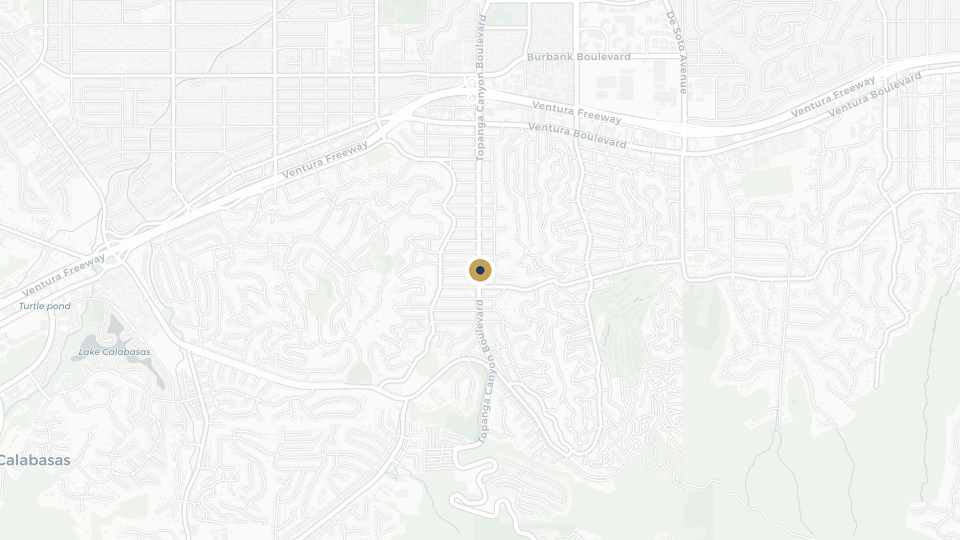
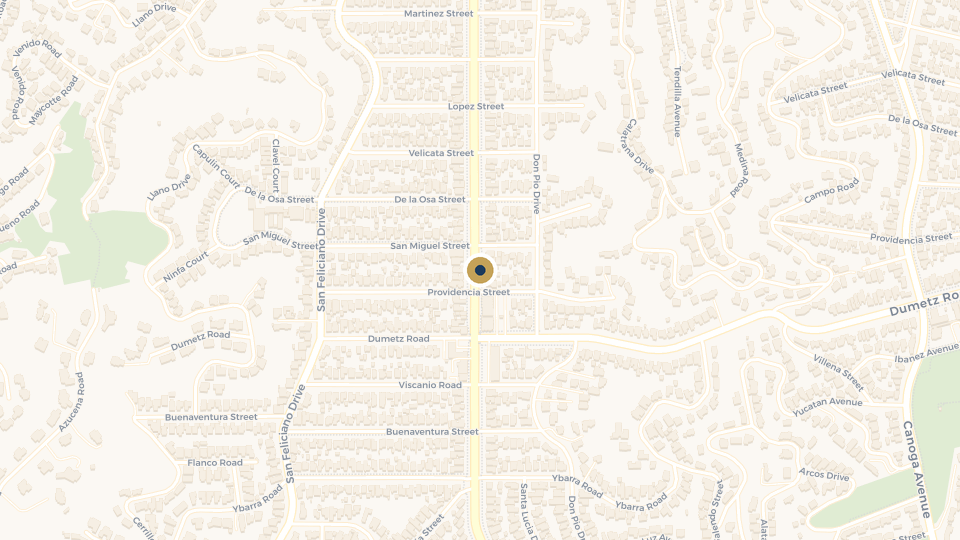
Interactive Leaflet maps: clickable comp markers w/ address popups; zoomed-in subject map; print fallbacks

Changed region(s): [[0.0, 0.0, 1.0, 1.0], [0.0, 0.6815, 0.0312, 0.8], [0.75, 0.0, 0.7812, 0.0296]]

diff --git a/index.html b/index.html
@@ -11,6 +11,8 @@
 <link rel="preconnect" href="https://fonts.googleapis.com">
 <link rel="preconnect" href="https://fonts.gstatic.com" crossorigin>
 <link href="https://fonts.googleapis.com/css2?family=Inter:wght@300;400;500;600;700&family=DM+Serif+Display&display=swap" rel="stylesheet">
+<link rel="stylesheet" href="https://unpkg.com/leaflet@1.9.4/dist/leaflet.css" integrity="sha256-p4NxAoJBhIIN+hmNHrzRCf9tD/miZyoHS5obTRR9BMY=" crossorigin=""/>
+<script src="https://unpkg.com/leaflet@1.9.4/dist/leaflet.js" integrity="sha256-20nQCchB9co0qIjJZRGuk2/Z9VM+kNiyxNV1lvTlZBo=" crossorigin=""></script>
 <style>
 * { margin: 0; padding: 0; box-sizing: border-box; }
 body { font-family: 'Inter', sans-serif; color: #333; line-height: 1.6; background: #fff; }
@@ -141,6 +143,9 @@ td.num, th.num { text-align: right; }
 .embed-map-wrap { position: relative; width: 100%; margin-bottom: 24px; border-radius: 8px; overflow: hidden; }
 .embed-map-wrap iframe { display: block; width: 100%; height: 420px; border: 0; }
 .pending-note { font-size: 12px; color: #6B7280; font-style: italic; margin: 8px 0 20px; }
+.print-only-map { display: none; }
+.leaflet-popup-content { font-family: 'Inter', sans-serif; font-size: 12px; line-height: 1.5; }
+.leaflet-container { font-family: 'Inter', sans-serif; }
 .page-break-marker { height: 4px; background: repeating-linear-gradient(90deg, #ddd 0, #ddd 8px, transparent 8px, transparent 16px); max-width: 1100px; margin: 0 auto; }
 .footer { background: #1B3A5C; color: #fff; padding: 50px 40px; text-align: center; }
 .footer-logo { width: 200px; margin-bottom: 30px; }
@@ -178,7 +183,8 @@ td.num, th.num { text-align: right; }
 @media print {
   @page { size: letter landscape; margin: 0.4in 0.5in; }
   body { font-size: 11px; -webkit-print-color-adjust: exact; print-color-adjust: exact; }
-  .toc-nav, .embed-map-wrap, .page-break-marker { display: none !important; }
+  .toc-nav, .embed-map-wrap, .page-break-marker, #map-comps, #map-loc { display: none !important; }
+  .print-only-map { display: block !important; width: 100%; height: auto; border-radius: 4px; }
   .cover { min-height: 7.5in; page-break-after: always; }
   .cover-headshots { display: flex !important; }
   .section { padding: 20px 0; page-break-before: always; }
@@ -393,8 +399,9 @@ td.num, th.num { text-align: right; }
       <p class="pending-note">Median HH income and demographic detail to be confirmed prior to launch.</p>
     </div>
   </div>
-  <div style="border-radius:8px;overflow:hidden;box-shadow:0 2px 12px rgba(0,0,0,0.08);margin-top:24px;"><img src="images/loc_map.png" alt="Location map - 4942 Topanga Canyon Blvd, Woodland Hills" style="width:100%;display:block;"></div>
-  <p style="font-size:10px;color:#999;margin:6px 0 0;">Map data &copy; OpenStreetMap contributors, &copy; CARTO.</p>
+  <div id="map-loc" style="height:430px;border-radius:8px;overflow:hidden;box-shadow:0 2px 12px rgba(0,0,0,0.08);margin-top:24px;"></div>
+  <img src="images/loc_map.png" class="print-only-map" alt="Location map" style="margin-top:24px;">
+  <p style="font-size:10px;color:#999;margin:6px 0 0;"><strong>Click the marker</strong> for the address; use +/&minus; to zoom in or out.</p>
 </div>
 
 <!-- PROPERTY DETAILS -->
@@ -463,7 +470,8 @@ td.num, th.num { text-align: right; }
   <div class="section-title">Sale Comparables</div>
   <div class="section-subtitle">Recent Sold New-Construction Four-Unit Properties</div>
   <div class="section-divider"></div>
-  <div style="border-radius:8px;overflow:hidden;box-shadow:0 2px 12px rgba(0,0,0,0.08);margin-bottom:10px;"><img src="images/comp_map.png" alt="Combined map of subject, sale comps, on-market comps, and rent comps" style="width:100%;display:block;"></div>
+  <div id="map-comps" style="height:480px;border-radius:8px;overflow:hidden;box-shadow:0 2px 12px rgba(0,0,0,0.08);margin-bottom:10px;"></div>
+  <img src="images/comp_map.png" class="print-only-map" alt="Combined comparables map">
   <div style="display:flex;flex-wrap:wrap;gap:10px 22px;align-items:center;font-size:12px;color:#444;margin-bottom:4px;">
     <strong style="color:#1B3A5C;">Combined Comparables Map</strong>
     <span><span style="display:inline-block;width:13px;height:13px;border-radius:50%;background:#C5A258;border:2px solid #1B3A5C;vertical-align:middle;margin-right:5px;"></span>Subject</span>
@@ -471,7 +479,7 @@ td.num, th.num { text-align: right; }
     <span><span style="display:inline-block;width:12px;height:12px;border-radius:50%;background:#E0763C;vertical-align:middle;margin-right:5px;"></span>On-market comps (5)</span>
     <span><span style="display:inline-block;width:12px;height:12px;border-radius:50%;background:#2E8B57;vertical-align:middle;margin-right:5px;"></span>Rent comps (5)</span>
   </div>
-  <p style="font-size:10px;color:#999;margin:0 0 18px;">Map data &copy; OpenStreetMap contributors, &copy; CARTO. Marker positions approximate. Rent comps detailed in the Financial Analysis section; sale and on-market comps tabled below.</p>
+  <p style="font-size:10px;color:#999;margin:0 0 18px;"><strong>Click any marker</strong> to see its address &amp; details; use the +/&minus; buttons to zoom. Rent comps detailed in Financial Analysis; sale &amp; on-market comps tabled below.</p>
   <p class="narrative">The four most recent new-construction and newer-vintage four-unit sales across the San Fernando Valley form the valuation backbone. These are premium central- and east-Valley submarkets (Toluca Lake / North Hollywood); the subject's Woodland Hills basis is set at a measured discount to their per-unit median, reconciled against the West Valley active set below. As the combined map shows, the subject's <em>rental</em> market is intensely local (the green Woodland Hills rent comps cluster around the site), while the strongest new-construction <em>sale</em> evidence sits in the central Valley.</p>
   <div class="table-scroll"><table>
     <thead><tr><th>Address</th><th>Submarket</th><th class="num">Yr</th><th class="num">Sale Price</th><th class="num">$/Unit</th><th class="num">$/SF</th><th class="num">Cap</th><th class="num">Sold</th></tr></thead>
@@ -700,6 +708,49 @@ function updateActiveTocLink() {
   tocLinks.forEach(function(l) { l.classList.remove('toc-active'); }); if (cur) cur.classList.add('toc-active');
 }
 window.addEventListener('scroll', updateActiveTocLink); updateActiveTocLink();
+</script>
+
+<script>
+(function(){
+  if (typeof L === 'undefined') return;
+  var TILE='https://{s}.basemap.cartocdn.com/rastertiles/voyager/{z}/{x}/{y}{r}.png';
+  var ATTR='&copy; <a href="https://www.openstreetmap.org/copyright">OpenStreetMap</a> &copy; <a href="https://carto.com/attributions">CARTO</a>';
+  var GOLD='#C5A258', NAVY='#1B3A5C', ORANGE='#E0763C', GREEN='#2E8B57';
+  function style(color,r){ return {radius:r, fillColor:color, color:'#fff', weight:2, opacity:1, fillOpacity:1}; }
+  var SUBJECT=[34.158119,-118.605716];
+  // [lat, lon, color, radius, popupHTML]
+  var pts=[
+    [34.157434,-118.364036,NAVY,9,'<b>Sale &middot; 10706 Camarillo St</b><br>Toluca Lake &middot; 2017<br>$2,800,000 &middot; $700,000/unit &middot; 5.37% cap'],
+    [34.173050,-118.363683,NAVY,9,'<b>Sale &middot; 5648 Cartwright Ave</b><br>North Hollywood &middot; 2025<br>$2,775,000 &middot; $693,750/unit &middot; 5.82% cap'],
+    [34.172698,-118.362549,NAVY,9,'<b>Sale &middot; 5626 Willowcrest Ave</b><br>North Hollywood &middot; 2017<br>$2,525,000 &middot; $631,250/unit &middot; 4.93% cap'],
+    [34.169743,-118.380510,NAVY,9,'<b>Sale &middot; 11447 Cumpston St</b><br>North Hollywood &middot; 2025<br>$3,350,000 &middot; $837,500/unit &middot; 5.09% cap'],
+    [34.178573,-118.606555,ORANGE,9,'<b>On-Market &middot; 6420-6422 Hanna Ave</b><br>Woodland Hills &middot; 2025<br>$2,525,000 &middot; $631,250/unit &middot; Active (MMI OM)'],
+    [34.174708,-118.372031,ORANGE,9,'<b>On-Market &middot; 5743 Case Ave</b><br>North Hollywood &middot; 2018<br>$2,400,000 &middot; $600,000/unit &middot; Pending'],
+    [34.172300,-118.362549,ORANGE,9,'<b>On-Market &middot; 5622 Willowcrest Ave</b><br>North Hollywood &middot; 2025<br>$2,250,000 &middot; $562,500/unit &middot; Pending'],
+    [34.215697,-118.557064,ORANGE,9,'<b>On-Market &middot; 19453 Strathern St</b><br>Reseda &middot; 2026<br>$2,495,000 &middot; $623,750/unit &middot; Active'],
+    [34.175334,-118.457205,ORANGE,9,'<b>On-Market &middot; 5750 Kester Ave</b><br>Van Nuys &middot; 2021<br>$3,460,000 &middot; $865,000/unit &middot; Active'],
+    [34.167681,-118.606890,GREEN,8,'<b>Rent &middot; 22041 Costanso St</b><br>Woodland Hills<br>3BR/2.5BA &middot; 1,624 SF &middot; $4,300/mo'],
+    [34.175240,-118.603201,GREEN,8,'<b>Rent &middot; 21820 Marylee St</b><br>Woodland Hills<br>3BR/3BA &middot; 1,459 SF &middot; $3,900/mo'],
+    [34.149951,-118.624972,GREEN,8,'<b>Rent &middot; 4406 Coloma Ave</b><br>Woodland Hills<br>2BR/2BA &middot; 830 SF &middot; $3,395/mo'],
+    [34.187553,-118.564931,GREEN,8,'<b>Rent &middot; 19803 Gilmore St</b><br>Woodland Hills<br>2BR/2BA &middot; 1,000 SF &middot; $3,750/mo'],
+    [34.178186,-118.631967,GREEN,8,'<b>Rent &middot; 5946 Woodlake Ave</b><br>Woodland Hills<br>2BR/2BA &middot; 883 SF &middot; $2,900/mo']
+  ];
+  var SUBJECT_POPUP='<b>SUBJECT &mdash; 4942 N Topanga Canyon Blvd</b><br>Woodland Hills, CA 91364<br>New 2026 &middot; Duplex + 2 ADUs (4 units)<br>Suggested $2,600,000 &middot; 5.45% cap';
+
+  // Combined comps map
+  var mc=L.map('map-comps',{scrollWheelZoom:false});
+  L.tileLayer(TILE,{attribution:ATTR,subdomains:'abcd',maxZoom:20}).addTo(mc);
+  var group=[];
+  pts.forEach(function(p){ group.push(L.circleMarker([p[0],p[1]],style(p[2],p[3])).bindPopup(p[4]).addTo(mc)); });
+  var subj=L.circleMarker(SUBJECT,style(GOLD,12)).bindPopup(SUBJECT_POPUP).addTo(mc);
+  subj.setStyle({color:NAVY,weight:3}); group.push(subj);
+  mc.fitBounds(L.featureGroup(group).getBounds().pad(0.12));
+
+  // Subject location map (zoomed in)
+  var ml=L.map('map-loc',{scrollWheelZoom:false}).setView(SUBJECT,16);
+  L.tileLayer(TILE,{attribution:ATTR,subdomains:'abcd',maxZoom:20}).addTo(ml);
+  L.circleMarker(SUBJECT,style(GOLD,13)).setStyle({color:NAVY,weight:3}).bindPopup(SUBJECT_POPUP).addTo(ml).openPopup();
+})();
 </script>
 </body>
 </html>